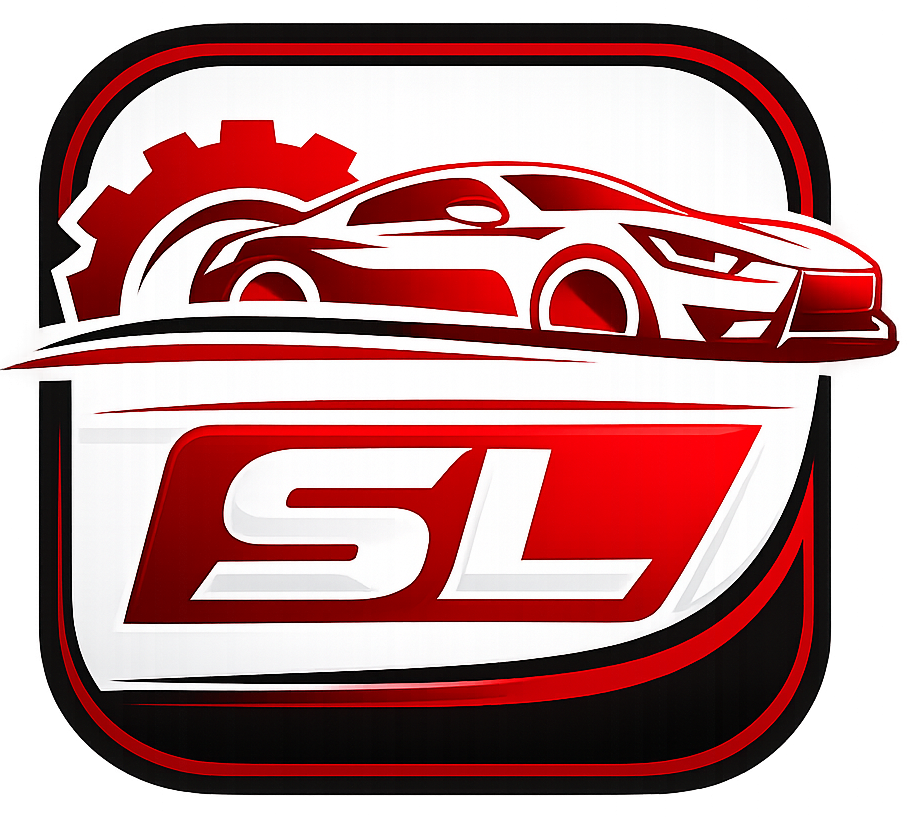
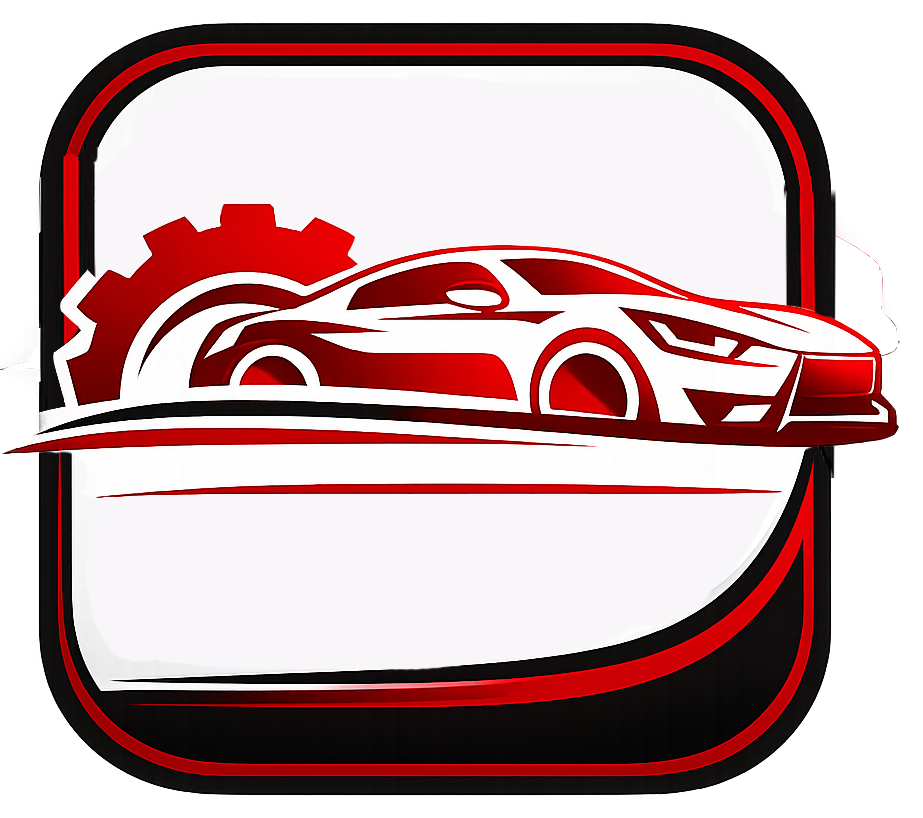
updates

Changed region(s): [[0.0, 0.1222, 0.9707, 0.7641]]

diff --git a/resources/views/Frontend/index.blade.php b/resources/views/Frontend/index.blade.php
@@ -4,6 +4,17 @@
 
 @section('content')
 
+
+<style>
+
+.content-one .inner-box h2,
+.content-one .inner-box h3 {
+    margin-bottom: 38px; 
+}
+
+
+</style>
+
       
         <!-- banner-style-two -->
         <section class="banner-style-two home-5 pt_30 pb_10 p_relative">
@@ -14,10 +25,10 @@
                         <div class="content-one content-box">
                             <div class="bg-layer" style="background-image: url({{ asset('frontend/assets/images/banner/banner-img-4.png') }});"></div>
                             <div class="inner-box">
-                                <span class="popular-product">Engine</span>
-                                <h2>Get All Original Parts for Your Car</h2>
-                                <h3>From <span>LKR 5000</span></h3>
-                                <a href="contact.html" class="theme-btn">Get in Touch<span></span><span></span><span></span><span></span></a>
+                                <span class="popular-product">The Best Place for Auto Parts</span>
+                                <h2>Premium Parts for Every Vehicle</h2>
+                                <h3 style="font-size:16px; color: #5a5a5a">Join our live auctions for exclusive deals on <br>vintage and performance parts.</span></h3>
+                                <a href="{{ route('Frontend.shop') }}" class="theme-btn mt-0">SHOP NOW<span></span><span></span><span></span><span></span></a>
                             </div>
                         </div>
                     </div>

diff --git a/resources/views/Frontend/header.blade.php b/resources/views/Frontend/header.blade.php
@@ -90,8 +90,9 @@
             <div class="header-upper">
                 <div class="large-container">
                     <div class="upper-inner">
-                        <figure class="logo-box"  style="height:70px">
-                            <a href="{{ route('Frontend.index') }}"><img src="{{ asset('logo4.png') }}" alt=""  style="height:100%"></a></figure>
+                        <figure class="logo-box"  style="height:50px">
+                            <a href="{{ route('Frontend.index') }}"><img src="{{ asset('logo.png') }}" alt=""  
+                            style="height:100%"></a></figure>
                         <div class="search-area">
                             @php
                                 $parentCategories = \App\Models\Category::whereNull('parent_id')
@@ -259,9 +260,17 @@
                                         <li class="{{ request()->routeIs('Frontend.index') ? 'current' : '' }}">
                                             <a href="{{ route('Frontend.index') }}">Home</a>
                                         </li> 
-
+                                        
                                         <li class="{{ request()->routeIs('Frontend.shop') ? 'current' : '' }}">
-                                            <a href="{{ route('Frontend.shop') }}">Shop</a>
+                                            <a href="{{ route('Frontend.shop') }}">Spare Parts</a>
+                                        </li> 
+
+                                        <li class="{{ request()->routeIs('Frontend.about') ? 'current' : '' }}">
+                                            <a href="{{ route('Frontend.about') }}">Vehicles</a>
+                                        </li> 
+
+                                         <li class="{{ request()->routeIs('Frontend.about') ? 'current' : '' }}">
+                                            <a href="{{ route('Frontend.about') }}">Auctions</a>
                                         </li> 
 
                                         <li class="{{ request()->routeIs('Frontend.about') ? 'current' : '' }}">

diff --git a/resources/views/Frontend/footer.blade.php b/resources/views/Frontend/footer.blade.php
@@ -6,7 +6,7 @@
                     <div class="row clearfix">
                         <div class="col-lg-3 col-md-6 col-sm-12 footer-column">
                             <div class="footer-widget logo-widget" data-aos="fade-up" data-aos-easing="linear" data-aos-duration="700">
-                                <figure class="footer-logo"><a href="{{ route('Frontend.index') }}"><img src="{{ asset('logo4.png') }}" 
+                                <figure class="footer-logo"><a href="{{ route('Frontend.index') }}"><img src="{{ asset('logo.png') }}" 
                                 style="width:250px" alt=""></a></figure>
                                 <p>Your trusted automotive marketplace for vehicles and spare parts, featuring direct sales and auction integration for a smarter buying experience.</p>
                                
@@ -21,8 +21,8 @@
                                     <ul class="links-list clearfix">
                                         <li><a href="{{ route('Frontend.index') }}">Home</a></li>
                                         <li><a href="{{ route('Frontend.about') }}">About Us</a></li>
-                                        <li><a href="{{ route('Frontend.shop') }}">Shop</a></li>
-                                        <li><a href="{{ route('Frontend.contact') }}">Contact Us</a></li>
+                                        <li><a href="{{ route('Frontend.shop') }}">Spare Parts</a></li>
+                                        <li><a href="{{ route('Frontend.contact') }}">Vehicles</a></li>
                                         <li><a href="{{ route('Frontend.index') }}">Auction</a></li>
                                     </ul>
                                 </div>

diff --git a/resources/views/AdminDashboard/sidebar.blade.php b/resources/views/AdminDashboard/sidebar.blade.php
@@ -7,8 +7,8 @@
     </button>
     <div>
         <a href="{{ route('admin.dashboard') }}" class="sidebar-logo">
-        <img src="{{ asset('logo3.png') }}" alt="DSA logo" class="light-logo" style="width:130px">
-        <img src="{{ asset('logo4.png') }}" alt="DSA logo" class="dark-logo" style="width:130px">
+        <img src="{{ asset('logo.png') }}" alt="DSA logo" class="light-logo" style="width:130px">
+        <img src="{{ asset('logo.png') }}" alt="DSA logo" class="dark-logo" style="width:130px">
         <img src="{{ asset('icon.png') }}" alt="DSA logo" class="logo-icon">
         </a>
     </div>

diff --git a/app/Http/Controllers/Frontend/PartShopController.php b/app/Http/Controllers/Frontend/PartShopController.php
@@ -112,7 +112,7 @@ class PartShopController extends Controller
         // -------------------------
         // Pagination
         // -------------------------
-        $products = $products->paginate(12)->withQueryString();
+        $products = $products->paginate(16)->withQueryString();
 
         // -------------------------
         // Categories for sidebar